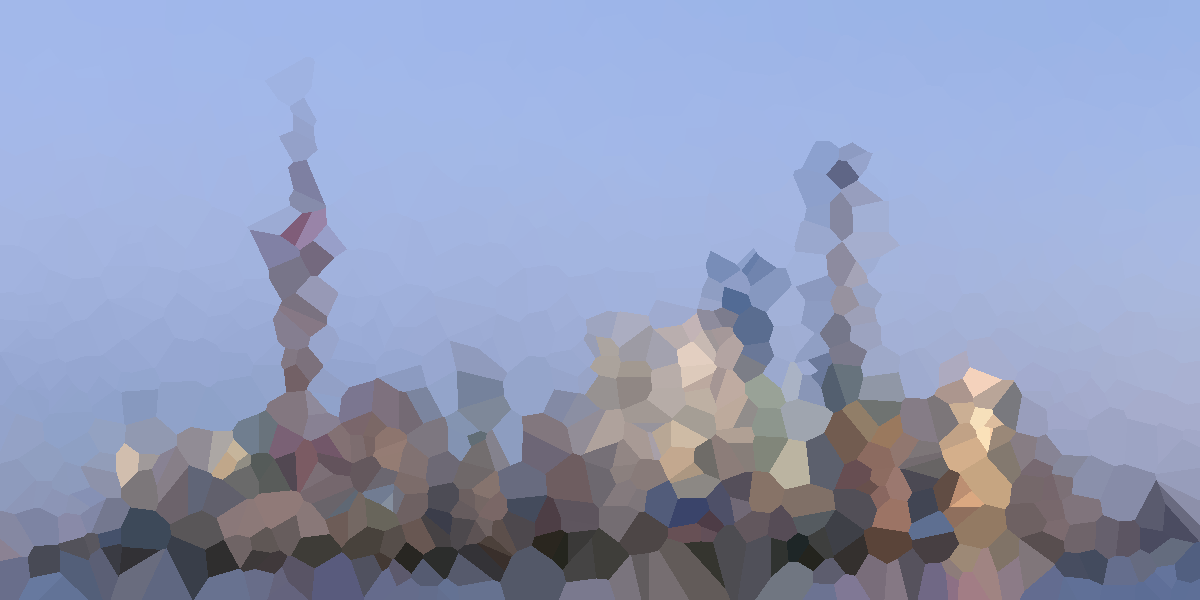
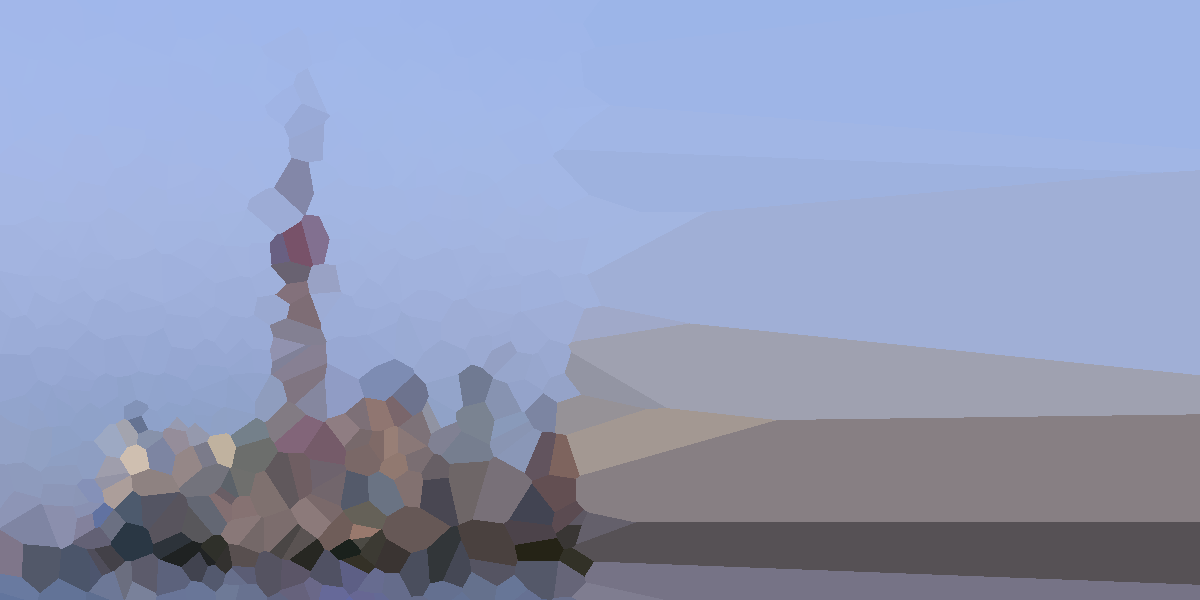
new algo in progress

Changed region(s): [[0.0, 0.24, 1.0, 1.0], [0.37, 0.6, 0.4008, 0.63], [0.2158, 0.21, 0.2467, 0.24]]

diff --git a/ZhangNguyenHW6/src/controller/commands/Mosaic.java b/ZhangNguyenHW6/src/controller/commands/Mosaic.java
@@ -6,13 +6,16 @@ import model.ImageProcessorModel;
 import model.Pixel;
 import model.PixelImpl;
 
+import java.lang.annotation.Documented;
 import java.util.ArrayList;
 import java.util.Arrays;
 import java.util.HashMap;
 import java.util.HashSet;
 import java.util.Map;
+import java.util.Objects;
 import java.util.Random;
 import java.util.Set;
+import java.util.TreeMap;
 
 public class Mosaic extends AbstractCommand implements ImageCommand {
   private int numSeeds;
@@ -71,6 +74,30 @@ public class Mosaic extends AbstractCommand implements ImageCommand {
     public double distance(int x, int y) {
       return Math.sqrt(Math.pow(this.x - x, 2) + Math.pow((this.y - y), 2));
     }
+
+    @Override
+    public String toString() {
+      return String.format("x: %d y: %d", x, y);
+    }
+
+    @Override
+    public boolean equals(Object o) {
+      if (this == o) {
+        return true;
+      }
+
+      if (!(o instanceof Coord)) {
+        return false;
+      }
+      Coord c = (Coord) o;
+
+      return c.getX() == x && c.getY() == y;
+    }
+
+    @Override
+    public int hashCode() {
+      return Objects.hash(x, y);
+    }
   }
 
   private ImageModel mosaic(ImageModel img) {
@@ -79,8 +106,8 @@ public class Mosaic extends AbstractCommand implements ImageCommand {
     numSeeds = Math.min(numSeeds, img.getHeight() * img.getWidth());
 
     while (clusters.size() < numSeeds) {
-      clusters.put(new Coord(rand.nextInt(img.getHeight()),
-              rand.nextInt(img.getWidth())), new ArrayList<Coord>());
+      clusters.put(new Coord(rand.nextInt(img.getWidth()),
+              rand.nextInt(img.getHeight())), new ArrayList<Coord>());
     }
     long startTime = System.currentTimeMillis();
     this.sortIntoCluster(clusters, img);
@@ -109,27 +136,65 @@ public class Mosaic extends AbstractCommand implements ImageCommand {
     return newimg;
   }
 
+  private void sortIntoCluster(Map<Coord, ArrayList<Coord>> clusters,
+                               ImageModel img) {
+    // sort the seeds into rectangular "sectors",
+    // each pixel only looks for seeds in the 9 closest sectors
+    int sectorX = img.getWidth() / 10;
+    int sectorY = img.getHeight() / 10;
+
+    // sector(xy coord of top left corner) : list_of_seeds_in_sector
+    Map<Coord, ArrayList<Coord>> sectors = new HashMap<>();
+    for (int i = 0; i < 11; i ++) {
+      for (int j = 0; j < 11; j ++) {
+        sectors.put(new Coord(i*sectorX, j*sectorY), new ArrayList<Coord>());
+      }
+    }
+
+    for (Coord c: clusters.keySet()) {
+      sectors.get(new Coord(Math.min((c.getX() / sectorX) * sectorX, sectorX*10),
+              Math.min((c.getY() / sectorY) * sectorY, sectorY*10))).add(c);
+    }
+
+    for (int i = 0; i < img.getHeight(); i ++) {
+      for (int j = 0; j < img.getWidth(); j ++) {
+        Coord closest = null;
+        double closest_distance = Double.MAX_VALUE;
+        for (Coord c : this.mergeSectors(sectors, sectorX, sectorY, i, j)) {
+          if (closest == null || (c.distance(i, j) < closest_distance)) {
+            closest = c;
+            closest_distance = closest.distance(i, j);
+          }
+        }
+        clusters.get(closest).add(new Coord(i, j));
+      }
+    }
+    int x = 0;
+  }
+
+  private ArrayList<Coord> mergeSectors(Map<Coord, ArrayList<Coord>> sectors,
+                                        int sectorX, int sectorY, int x, int y) {
+    ArrayList<Coord> seedsToCheck = new ArrayList<Coord>();
+    int xStart = Math.min((x / sectorX) * sectorX, sectorX*10) - sectorX;
+    int yStart = Math.min((y / sectorY) * sectorY, sectorY*10) - sectorY;
+
+    for (int i = xStart; i <= xStart + 2 * sectorX; i += sectorX) {
+      for (int j = yStart; j <= yStart + 2 * sectorY; j += sectorY) {
+        if (sectors.containsKey(new Coord(i, j))) {
+          seedsToCheck.addAll(sectors.get(new Coord(i, j)));
+        }
+      }
+    }
+    if (seedsToCheck.size() == 0) {
+      for (ArrayList<Coord> coords : sectors.values()) {
+        seedsToCheck.addAll(coords);
+      }
+    }
+    return seedsToCheck;
+  }
+
 //  private void sortIntoCluster(Map<Coord, ArrayList<Coord>> clusters,
-//                               ImageModel img) {
-//    // sort the seeds into "sectors", each pixel only looks for seeds in the 9 closest sectors
-//    int sectorX = img.getWidth() / 10;
-//    int sectorY = img.getHeight() / 10;
-//
-//    // sector : list_of_seeds_in_sector
-//    Map<Coord, ArrayList<Coord>> sectors = new HashMap<>();
-//    for (int i = 0; i < 11; i ++) {
-//      for (int j = 0; j < 11; j ++) {
-//        sectors.put(new Coord(i*sectorX, j*sectorY), new ArrayList<Coord>());
-//      }
-//      // overflow bucket due to integer math
-//      sectors.put(new Coord(i*sectorX, img.getHeight()), new ArrayList<>());
-//    }
-//    sectors.put(new Coord(img.getWidth(), img.getHeight()), new ArrayList<>());
-//
-//    for (Coord c: clusters.keySet()) {
-//
-//    }
-//
+//                                                       ImageModel img) {
 //    for (int i = 0; i < img.getHeight(); i ++) {
 //      for (int j = 0; j < img.getWidth(); j ++) {
 //        Coord closest = null;
@@ -140,27 +205,8 @@ public class Mosaic extends AbstractCommand implements ImageCommand {
 //            closest_distance = closest.distance(i, j);
 //          }
 //        }
-//        ArrayList<Coord> clusterMembers = clusters.get(closest);
-//        clusterMembers.add(new Coord(i, j));
-//        clusters.put(closest, clusterMembers);
+//        clusters.get(closest).add(new Coord(i, j));
 //      }
 //    }
 //  }
-
-  private void sortIntoCluster(Map<Coord, ArrayList<Coord>> clusters,
-                                                       ImageModel img) {
-    for (int i = 0; i < img.getHeight(); i ++) {
-      for (int j = 0; j < img.getWidth(); j ++) {
-        Coord closest = null;
-        double closest_distance = Double.MAX_VALUE;
-        for (Coord c: clusters.keySet()) {
-          if (closest == null || (c.distance(i, j) < closest_distance)) {
-            closest = c;
-            closest_distance = closest.distance(i, j);
-          }
-        }
-        clusters.get(closest).add(new Coord(i, j));
-      }
-    }
-  }
 }
